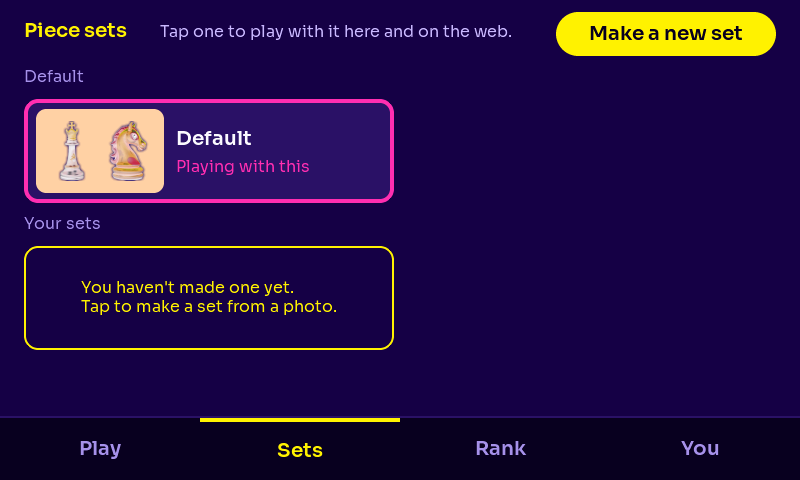
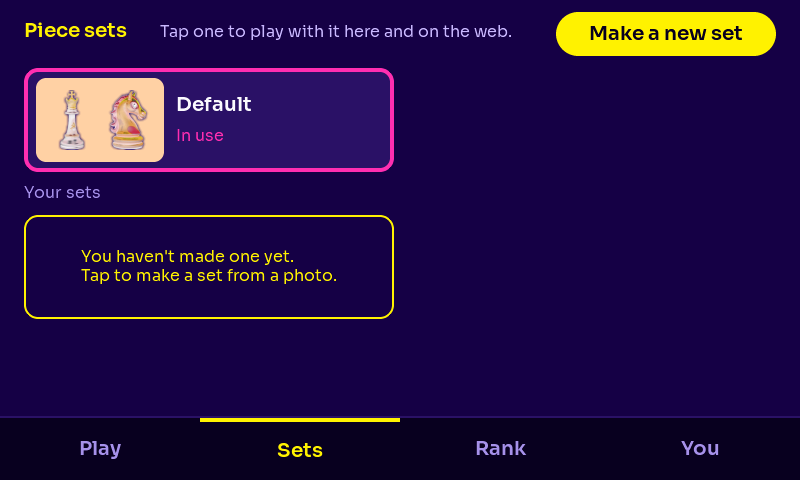
firmware 0.11.9

Changed region(s): [[0.0312, 0.125, 0.5, 0.7188], [0.0312, 0.7188, 0.4688, 0.75]]

diff --git a/firmware/main/ui_screens.c b/firmware/main/ui_screens.c
@@ -1169,7 +1169,14 @@ void eg_find_set_status(lv_obj_t *screen, const char *msg, bool sent)
 
 /* ---------- Sets tab (pick Default or one of yours; making a new one opens the QR screen) ---------- */
 
-typedef struct { void (*pick)(const char *); void (*make)(void); lv_obj_t *list; char ids[EG_HOME_MAX_SETS][48]; } sets_t;
+typedef struct {
+    void (*pick)(const char *); void (*make)(void);
+    void (*rename)(const char *id, const char *name); void (*del)(const char *id);
+    lv_obj_t *list; char ids[EG_HOME_MAX_SETS][48];
+    /* edit panel */
+    lv_obj_t *panel, *ta, *status, *save, *del_btn; kbd_t *k;
+    int edit; uint32_t del_armed;
+} sets_t;
 
 static void sets_pick_cb(lv_event_t *e)
 {
@@ -1183,6 +1190,10 @@ static void sets_pick_cb(lv_event_t *e)
     if (t->pick) t->pick(t->ids[i]);
 }
 
+static void sets_edit_back_cb(lv_event_t *e);
+static void sets_save_cb(lv_event_t *e);
+static void sets_del_cb(lv_event_t *e);
+static void sets_enter(void *ctx, lv_obj_t *ta);
 static void sets_make_cb(lv_event_t *e) { sets_t *t = lv_event_get_user_data(e); if (t->make) t->make(); }
 
 static lv_obj_t *sets_heading(lv_obj_t *list, const char *text)
@@ -1214,7 +1225,110 @@ lv_obj_t *eg_sets_create(lv_obj_t *parent, void (*on_pick)(const char *), void (
     lv_obj_set_style_pad_all(t->list, 0, 0);
     lv_obj_set_style_pad_gap(t->list, 12, 0);
     add_nav(s, 1);
+
+    /* Edit panel: rename or delete one of your sets. Covers the screen, nav included. */
+    t->edit = -1;
+    t->panel = base(s);
+    lv_obj_add_flag(t->panel, LV_OBJ_FLAG_HIDDEN);
+    lv_obj_set_pos(label(t->panel, &eg_bungee_28, EG_YELLOW, "EDIT SET"), 40, 16);
+    lv_obj_add_event_cb(pill(t->panel, "Back", EG_SURFACE, 640, 16, 120, 44), sets_edit_back_cb, LV_EVENT_CLICKED, t);
+    t->ta = lv_textarea_create(t->panel);
+    lv_textarea_set_one_line(t->ta, true);
+    lv_textarea_set_max_length(t->ta, 32);
+    lv_textarea_set_placeholder_text(t->ta, "Set name");
+    lv_obj_set_size(t->ta, 440, 52);
+    lv_obj_set_pos(t->ta, 40, 70);
+    lv_obj_set_style_bg_color(t->ta, lv_color_hex(0x3A1A85), 0);
+    lv_obj_set_style_text_color(t->ta, EG_FG, 0);
+    lv_obj_set_style_text_font(t->ta, &eg_sora_20, 0);
+    lv_obj_set_style_border_color(t->ta, EG_PINK, 0);
+    lv_obj_set_style_border_width(t->ta, 4, 0);
+    lv_obj_set_style_bg_color(t->ta, EG_PINK, LV_PART_CURSOR | LV_STATE_FOCUSED);
+    lv_obj_add_state(t->ta, LV_STATE_FOCUSED);
+    t->save = pill(t->panel, "Save name", EG_PINK, 500, 70, 260, 52);
+    lv_obj_add_event_cb(t->save, sets_save_cb, LV_EVENT_CLICKED, t);
+    t->del_btn = pill(t->panel, "Delete set", EG_SURFACE, 40, 140, 260, 52);
+    lv_obj_set_style_text_color(lv_obj_get_child(t->del_btn, 0), EG_PINK_SOFT, 0);
+    lv_obj_add_event_cb(t->del_btn, sets_del_cb, LV_EVENT_CLICKED, t);
+    t->status = label(t->panel, &eg_sora_16, EG_FG_HAZE, "");
+    lv_obj_set_width(t->status, 440);
+    lv_label_set_long_mode(t->status, LV_LABEL_LONG_WRAP);
+    lv_obj_set_pos(t->status, 320, 156);
+    t->k = kbd_create(t->panel, sets_enter, t);
+    lv_keyboard_set_textarea(t->k->kb, t->ta);
     return s;
+}
+
+static void sets_edit_status(sets_t *t, const char *msg) { lv_label_set_text(t->status, msg ? msg : ""); }
+
+static void sets_edit_close(sets_t *t)
+{
+    lv_obj_add_flag(t->panel, LV_OBJ_FLAG_HIDDEN);
+    t->edit = -1;
+}
+
+static void sets_edit_open_cb(lv_event_t *e)
+{
+    sets_t *t = lv_obj_get_user_data(lv_event_get_current_target(e));
+    intptr_t i = (intptr_t)lv_event_get_user_data(e);
+    lv_obj_t *tile = lv_obj_get_parent(lv_event_get_current_target(e));
+    t->edit = (int)i;
+    t->del_armed = 0;
+    lv_textarea_set_text(t->ta, lv_label_get_text(lv_obj_get_child(tile, 1)));
+    lv_label_set_text(lv_obj_get_child(t->del_btn, 0), "Delete set");
+    lv_obj_remove_state(t->save, LV_STATE_DISABLED);
+    lv_obj_remove_state(t->del_btn, LV_STATE_DISABLED);
+    sets_edit_status(t, NULL);
+    lv_obj_remove_flag(t->panel, LV_OBJ_FLAG_HIDDEN);
+    lv_obj_move_foreground(t->panel);
+}
+
+static void sets_edit_back_cb(lv_event_t *e) { sets_edit_close(lv_event_get_user_data(e)); }
+
+static void sets_do_rename(sets_t *t)
+{
+    if (t->edit < 0) return;
+    const char *name = lv_textarea_get_text(t->ta);
+    while (*name == ' ') name++;
+    if (!*name) { sets_edit_status(t, "Give it a name first."); return; }
+    lv_obj_add_state(t->save, LV_STATE_DISABLED);
+    sets_edit_status(t, "Saving...");
+    if (t->rename) t->rename(t->ids[t->edit], name);
+}
+static void sets_save_cb(lv_event_t *e) { sets_do_rename(lv_event_get_user_data(e)); }
+static void sets_enter(void *ctx, lv_obj_t *ta) { (void)ta; sets_do_rename(ctx); }
+
+static void sets_del_cb(lv_event_t *e)
+{
+    sets_t *t = lv_event_get_user_data(e);
+    if (t->edit < 0) return;
+    uint32_t now = lv_tick_get();
+    if (!t->del_armed || now - t->del_armed > 3000) {
+        t->del_armed = now;
+        lv_label_set_text(lv_obj_get_child(t->del_btn, 0), "Tap again to delete");
+        return;
+    }
+    t->del_armed = 0;
+    lv_obj_add_state(t->del_btn, LV_STATE_DISABLED);
+    sets_edit_status(t, "Deleting...");
+    if (t->del) t->del(t->ids[t->edit]);
+}
+
+void eg_sets_set_edit(lv_obj_t *screen, void (*on_rename)(const char *, const char *), void (*on_delete)(const char *))
+{
+    sets_t *t = lv_obj_get_user_data(screen);
+    t->rename = on_rename;
+    t->del = on_delete;
+}
+
+void eg_sets_edit_done(lv_obj_t *screen, bool ok, const char *msg)
+{
+    sets_t *t = lv_obj_get_user_data(screen);
+    if (ok) { sets_edit_close(t); return; }
+    lv_obj_remove_state(t->save, LV_STATE_DISABLED);
+    lv_obj_remove_state(t->del_btn, LV_STATE_DISABLED);
+    lv_label_set_text(lv_obj_get_child(t->del_btn, 0), "Delete set");
+    sets_edit_status(t, msg);
 }
 
 static void set_tile(sets_t *t, const eg_set_t *st, const char *name, bool active, int i)
@@ -1244,9 +1358,17 @@ static void set_tile(sets_t *t, const eg_set_t *st, const char *name, bool activ
     if (!k && !n) { lv_obj_t *w = label(tile, &eg_sora_16, EG_BG_VOID, "Loading..."); lv_obj_center(w); }
     lv_obj_t *l = label(b, &eg_sora_20_bold, EG_FG, name);
     lv_label_set_long_mode(l, LV_LABEL_LONG_DOT);
-    lv_obj_set_width(l, 210);
+    bool editable = strcmp(st->id, "default") != 0;
+    lv_obj_set_size(l, editable ? 136 : 210, 28);           /* one line, "..." when long */
     lv_obj_align(l, LV_ALIGN_LEFT_MID, 140, active ? -12 : 0);
-    if (active) { lv_obj_t *a = label(b, &eg_sora_16, EG_PINK, "Playing with this"); lv_obj_align(a, LV_ALIGN_LEFT_MID, 140, 16); }
+    if (active) { lv_obj_t *a = label(b, &eg_sora_16, EG_PINK, "In use"); lv_obj_align(a, LV_ALIGN_LEFT_MID, 140, 16); }
+    if (editable) {
+        lv_obj_t *ed = pill(b, "Edit", EG_BG_VOID, 0, 0, 64, 40);
+        lv_obj_align(ed, LV_ALIGN_RIGHT_MID, 0, 0);
+        lv_obj_set_style_text_font(lv_obj_get_child(ed, 0), &eg_sora_16, 0);
+        lv_obj_set_user_data(ed, t);
+        lv_obj_add_event_cb(ed, sets_edit_open_cb, LV_EVENT_CLICKED, (void *)(intptr_t)i);
+    }
     lv_obj_add_event_cb(b, sets_pick_cb, LV_EVENT_CLICKED, (void *)(intptr_t)i);
 }
 

diff --git a/firmware/main/main.c b/firmware/main/main.c
@@ -118,7 +118,7 @@ static void on_menu_wifi(void)
  * the network task picks up within 250 ms. */
 
 static struct {
-    volatile bool home, ai, challenge, open, set, resign, rank, thumbs, sets;
+    volatile bool home, ai, challenge, open, set, resign, rank, thumbs, sets, set_edit;
     volatile bool qm_join, qm_cancel, search, chal_send, respond, respond_accept;
     char difficulty[16], color[8], game_id[40], set_id[48];
     char query[32], opp_id[40], opp_name[33], first[10], chal_id[40];
@@ -196,6 +196,21 @@ static void on_ai_start(const char *difficulty, const char *color)
     req.ai = true;
 }
 static void on_pick_set(const char *id) { snprintf(req.set_id, sizeof req.set_id, "%s", id); req.set = true; }
+static char set_edit_id[48], set_edit_name[40];
+static bool set_edit_delete;
+static void on_set_rename(const char *id, const char *name)
+{
+    snprintf(set_edit_id, sizeof set_edit_id, "%s", id);
+    snprintf(set_edit_name, sizeof set_edit_name, "%s", name);
+    set_edit_delete = false;
+    req.set_edit = true;
+}
+static void on_set_delete(const char *id)
+{
+    snprintf(set_edit_id, sizeof set_edit_id, "%s", id);
+    set_edit_delete = true;
+    req.set_edit = true;
+}
 static void on_menu_home(void) { req.home = true; ui_load(scr_home); }
 static void on_resign(void) { req.resign = true; }
 
@@ -525,6 +540,19 @@ static void net_task(void *arg)
                 eg_rank_set(scr_rank, &rank, r == EG_OK ? NULL : "Couldn't load the leaderboard.");
                 lvgl_port_unlock();
             }
+            if (req.set_edit) {
+                req.set_edit = false;
+                r = eg_api_set_edit(token, set_edit_id, set_edit_delete ? NULL : set_edit_name);
+                lvgl_port_lock(0);
+                eg_sets_edit_done(scr_sets, r == EG_OK,
+                                  r == EG_CONFLICT ? "That set is gone. It may have been deleted on the web."
+                                                   : "Couldn't save. Check Wi-Fi and try again.");
+                lvgl_port_unlock();
+                if (r == EG_OK) {
+                    req.sets = true;                                  /* fresh list */
+                    if (set_edit_delete) eg_pieces_load(token, &changed);   /* deleting the active set falls back to Default */
+                }
+            }
             if (req.sets) {                      /* Sets opened: fetch the list fresh (a set made on the phone shows up) */
                 req.sets = false;
                 if (eg_api_home(token, &home) == EG_OK) {
@@ -638,6 +666,7 @@ void app_main(void)
     eg_challenge_set_find(scr_chal, on_home_find);
     scr_sets = eg_sets_create(NULL, on_pick_set, on_make);
     scr_make = eg_make_create(NULL, on_make_back);
+    eg_sets_set_edit(scr_sets, on_set_rename, on_set_delete);
     scr_rank = eg_rank_create(NULL);
     scr_you = eg_you_create(NULL, on_forget, eg_ota_version());
     eg_game_cb_t cb = {.on_move = on_move, .on_resign = on_resign, .on_menu_home = on_menu_home};

diff --git a/firmware/tools/preview/preview.c b/firmware/tools/preview/preview.c
@@ -87,7 +87,15 @@ int main(int argc, char **argv)
             .sets = {{"default", "Default"}, {"s1", "Vaporwave Rena"}, {"s2", "Jon Bo"}}};
         for (int i = 0; i < 3; i++) { strcpy(h.sets[i].preview_k, "wk"); strcpy(h.sets[i].preview_n, "wn"); }
         if (strcmp(which, "sets-empty") == 0) { h.n_sets = 1; strcpy(h.active_set, "default"); }
-        if (strncmp(which, "sets", 4) == 0) eg_sets_set(eg_sets_create(lv_screen_active(), NULL, NULL), &h);
+        if (strncmp(which, "sets", 4) == 0) {
+            lv_obj_t *ss = eg_sets_create(lv_screen_active(), NULL, NULL);
+            eg_sets_set(ss, &h);
+            if (strcmp(which, "sets-edit") == 0) {
+                lv_obj_t *list = lv_obj_get_child(ss, 3);      /* title, hint, make pill, list */
+                lv_obj_t *tile = lv_obj_get_child(list, 2);     /* Default, heading, first of yours */
+                lv_obj_send_event(lv_obj_get_child(tile, -1), LV_EVENT_CLICKED, NULL);
+            }
+        }
         else { eg_home_cb_t cb = {0}; eg_home_set(eg_home_create(lv_screen_active(), &cb), &h); }
     } else if (strcmp(which, "quick") == 0) {
         eg_qm_set(eg_qm_create(lv_screen_active(), NULL, NULL), "Looking for an opponent... 0:42", true);

diff --git a/firmware/main/api.c b/firmware/main/api.c
@@ -569,3 +569,20 @@ void *eg_http_download(const char *url, size_t *len)
     *len = b.len;
     return b.buf;
 }
+
+eg_result_t eg_api_set_edit(const char *token, const char *set_id, const char *name)
+{
+    if (!safe_id(set_id) || strcmp(set_id, "default") == 0) return EG_ERROR;
+    cJSON *j = cJSON_CreateObject();
+    cJSON_AddStringToObject(j, "setId", set_id);
+    cJSON_AddStringToObject(j, "action", name ? "rename" : "delete");
+    if (name) cJSON_AddStringToObject(j, "name", name);
+    char *req = cJSON_PrintUnformatted(j);
+    cJSON_Delete(j);
+    if (!req) return EG_ERROR;
+    char *body = NULL;
+    int st = request(HTTP_METHOD_POST, "board-set-edit", token, req, &body);
+    cJSON_free(req);
+    heap_caps_free(body);
+    return st == 200 ? EG_OK : st == 401 ? EG_UNAUTHORIZED : st == 404 ? EG_CONFLICT : EG_ERROR;
+}

diff --git a/firmware/main/ui_screens.h b/firmware/main/ui_screens.h
@@ -72,6 +72,9 @@ void eg_screens_set_tab_handler(void (*on_tab)(int tab));
 
 lv_obj_t *eg_sets_create(lv_obj_t *parent, void (*on_pick)(const char *set_id), void (*on_make)(void));
 void eg_sets_set(lv_obj_t *screen, const eg_home_t *h);
+/* Rename / delete one of your sets (the Edit pill on each tile). Call eg_sets_edit_done with the result. */
+void eg_sets_set_edit(lv_obj_t *screen, void (*on_rename)(const char *id, const char *name), void (*on_delete)(const char *id));
+void eg_sets_edit_done(lv_obj_t *screen, bool ok, const char *msg);
 lv_obj_t *eg_make_create(lv_obj_t *parent, void (*on_back)(void));
 lv_obj_t *eg_rank_create(lv_obj_t *parent);
 void eg_rank_set(lv_obj_t *screen, const eg_rank_t *d, const char *error);   /* error non-NULL shows it instead */

diff --git a/firmware/main/api.h b/firmware/main/api.h
@@ -71,6 +71,9 @@ eg_result_t eg_api_new_challenge(const char *token, const char *color, char url[
 eg_result_t eg_api_resign(const char *token, const char *game_id, eg_game_t *out);
 /* POST /board-set */
 eg_result_t eg_api_set(const char *token, const char *set_id);
+/* POST /board-set-edit. name != NULL renames the set; name == NULL deletes it (hidden, restorable on the web).
+ * EG_CONFLICT: the set is gone or isn't yours. The default set can't be edited. */
+eg_result_t eg_api_set_edit(const char *token, const char *set_id, const char *name);
 
 /* ---------- people: quick match and direct challenges ---------- */
 
